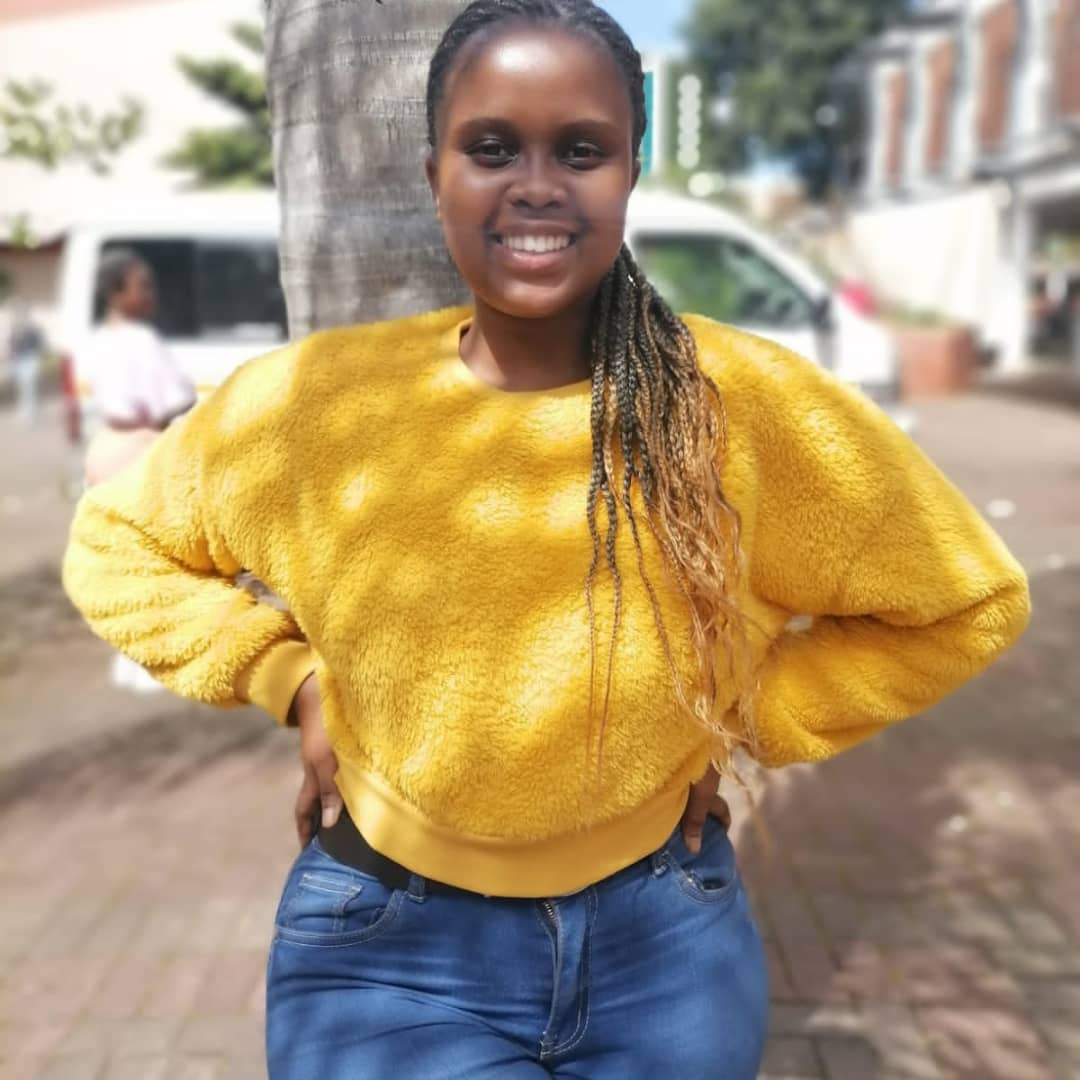
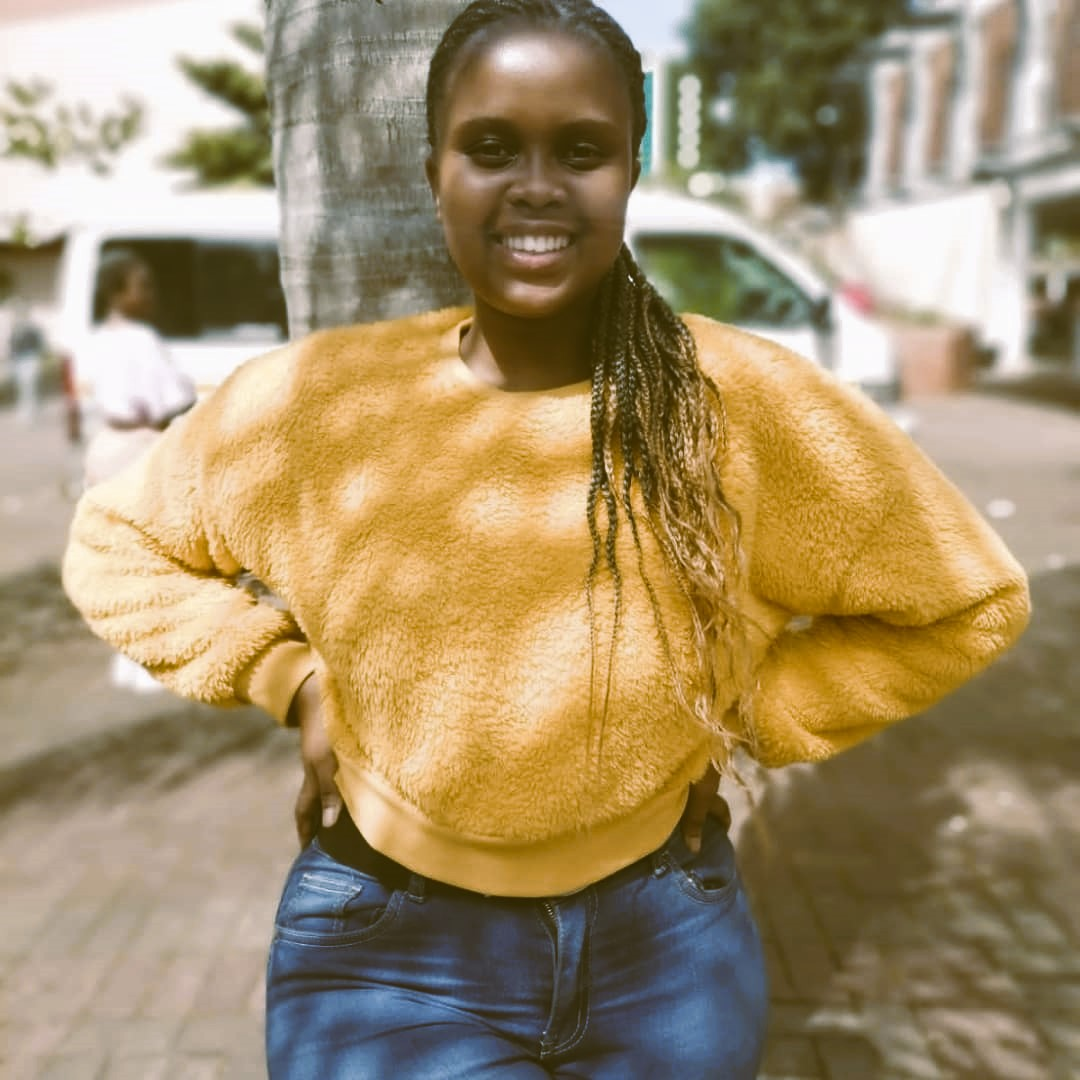
Changed index, changed Image filter and Added more styling on css

diff --git a/style.css b/style.css
@@ -3,7 +3,7 @@ margin: 0;
 font-family: 'Times New Roman', Times, serif;}
 
 body{background-color: rgba(0, 0, 0, 0.623);
-color: aliceblue;}
+}
 
 header{/*border: 1px solid #000000;*/
 padding: 10px;
@@ -11,32 +11,41 @@ margin: 10px;}
 
 header ul{list-style-type: none;
 display: flex;
-margin-left: 900px;}
+margin-left: 800px;
+margin-top: 20px;}
 
 
 header ul a{text-decoration: none;
-color: aliceblue;
-padding: 20px;}
+color: black;
+padding: 20px;
+border-radius: 30px;
+margin: 10px;
+background-color: rgb(169, 197, 141);}
 
-a:hover{background-color: rgb(169, 197, 141);
+a:hover{background-color: rgba(0, 0, 0, 0.167);
 width: 5px;}
 
 .container{/*border: 1px solid #000000;*/
 display: flex;
+column-gap: 10px;
 padding: 10px;
 }
 
 .text{/*border: 1px solid #000000;*/
 padding: 20px;
-margin: 30px;
+margin: 20px;
 }
 
-.text h1{font-size: 120px;}
+.text h1{font-size: 130px;
+background-color: rgba(0, 0, 0, 0.167);
+border-radius: 30px;
+padding: 5px;}
 
-.text h2{padding: 10px;
-font-size: 50px;}
-
-.text p{padding: 10px;}
+.text h2{padding: 20px;
+font-size: 50px;
+background-color: rgba(0, 0, 0, 0.167);
+border-radius: 30px;
+margin: 5px;}
 
 img{/*border: 1px solid #000000;*/
 height: 600px;
@@ -47,8 +56,10 @@ border-radius: 300px;}
 
 .weather{padding: 30px;
 font-size: 20px;
-border: 1px solid #000000;
-height: 100px;
-width: 200px;}
+/*border: 1px solid #000000;*/
+height: 45px;
+width: 720px;
+background-color: rgba(0, 0, 0, 0.167);
+border-radius: 30px;}
 
 

diff --git a/index.html b/index.html
@@ -19,12 +19,12 @@
        </div>
     </header>
     <div class="container">
-        <div>
+        <div class="picture">
             <img src="Image.jpg" alt="My Image">
         </div>
         <div class="text">
             <h1>MY PORTFOLIO</h1>
-            <h2>Phumlile Mtshali👩💻</h2><br>
+            <h2>Phumlile Mtshali👩💻</h2>
         <div class="weather">🌄Whole Week Weather Forecast</div>
         <script>
         navigator.geolocation.getCurrentPosition(p=>fetch(`https://api.open-meteo.com/v1/forecast?latitude=${p.coords.latitude}&longitude=${p.coords.longitude}&daily=temperature_2m_min,temperature_2m_max&timezone=auto`).then(r=>r.json()).then(d=>document.getElementById('forecast').innerHTML=d.daily.time.map((t,i)=>`${t}: ${d.daily.temperature_2m_min[i]}–${d.daily.temperature_2m_max[i]}°C`).join('<br>')));

diff --git a/style2.css b/style2.css
@@ -2,7 +2,6 @@
 margin: 0;}
 
 body{background-color: rgba(0, 0, 0, 0.623);
-color: aliceblue;
 /*border: 1px solid #000000;*/
 padding: 10px;
 margin: 10px;}
@@ -11,4 +10,4 @@ ul{/*border: 1px solid #000000;*/
 padding: 25px;}
 
 ul a{text-decoration: none;
-color: aliceblue;}
+color: black;}
